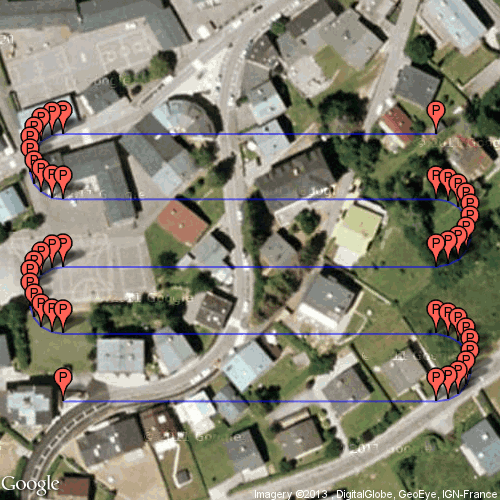
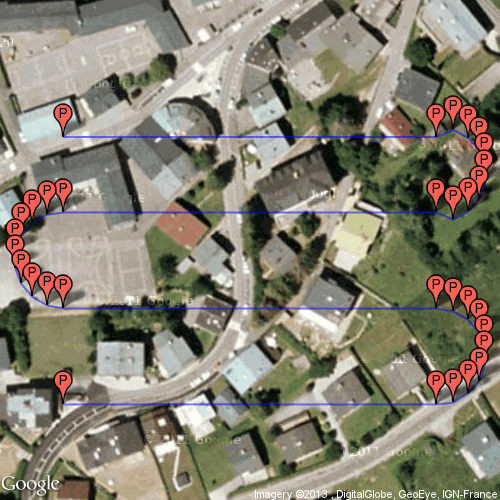
Correcion bug zoom et fonction de chargemnt

diff --git a/Map.java b/Map.java
@@ -197,9 +197,6 @@ public class Map extends JPanel implements MouseListener, MouseMotionListener, M
 		////////////////////////////
                 loadImage();   	
 		
-		initWidth = image.getWidth();
-		initHeight = image.getHeight();
-		
 		System.out.println("Width = "+initWidth+" Height = "+initHeight);
                
                 Graphics2D g2 = image.createGraphics();
@@ -263,8 +260,8 @@ public class Map extends JPanel implements MouseListener, MouseMotionListener, M
 		//imageInit = new BufferedImage();		
 		
 		imageInit = image;
-		initWidth = image.getWidth();
-		initHeight = image.getHeight();
+		
+		
 		
 		System.out.println("Width = "+initWidth+" Height = "+initHeight);
                 Graphics2D g2 = image.createGraphics();
@@ -361,7 +358,7 @@ public class Map extends JPanel implements MouseListener, MouseMotionListener, M
         public void mouseClicked(MouseEvent e){
         	//la fonction est appelée lors d'un clic (appui + relache) (molette incluse)
 		if(mode == "Panorama"){
-			if(!drawArea){
+			if(drawArea == false){
 				if(e.getClickCount() == 1 && e.getButton() == BUTTON1){
 					System.out.println("sélection");
 				
@@ -458,7 +455,7 @@ public class Map extends JPanel implements MouseListener, MouseMotionListener, M
                 		
                 	//l'instance de popupmenu est crée dans le constructeur
 			popupmenu.show(this, e.getX(), e.getY());
-            		popupmenu.setVisible(true);			
+            		popupmenu.setVisible(true);		
 		}		
         }
         /////////////////////////// FIN DE LA ZONE MATLAB ///////////////////////        
@@ -660,21 +657,25 @@ public class Map extends JPanel implements MouseListener, MouseMotionListener, M
 		//la fonction est appelée lorsque la molette est tournée
 		//vers le haut : e.getWheelRotation = -1
 		//vers le bas : e.getWheelRotation = +1
+		//Si on est dans l'image :
+		if(e.getX() >= offsetX && e.getX() <= image.getWidth() + offsetX && e.getY() >= offsetY && e.getY() <= image.getHeight() + offsetY)
+		{
 		
-		if(e.getWheelRotation() == -1 && scale < 10){
-			scale = scale + 0.1;
-		}
-		else if(e.getWheelRotation() == 1){
-			scale = scale - 0.1;
-			
-			if(scale < 0.1){
-				scale = 0.1;
+			if(e.getWheelRotation() == -1 && scale < 10){
+				scale = scale + 0.1;
 			}
-		}
+			else if(e.getWheelRotation() == 1){
+				scale = scale - 0.1;
+				
+				if(scale < 0.1){
+					scale = 0.1;
+				}
+			}
 		
-		System.out.println("Echelle : "+scale);
-		System.out.println("Zone à zoomer : ("+e.getX()+";"+e.getY()+")");
-		setScale(e.getX(), e.getY());
+			System.out.println("Echelle : "+scale);
+			System.out.println("Zone à zoomer : ("+e.getX()+";"+e.getY()+")");
+			setScale(e.getX(), e.getY());
+		}	
 	}
 	
         /**
@@ -713,8 +714,7 @@ public class Map extends JPanel implements MouseListener, MouseMotionListener, M
 			p.poffset.setX(p.poffset.getX() - (int)((a-p.poffset.getX())*factor - a + p.poffset.getX()));
 			p.poffset.setY(p.poffset.getY() - (int)((b-p.poffset.getY())*factor - b + p.poffset.getY()));
 		}
-     		
-     		
+     				
 		repaint();
     	}
     	
@@ -724,11 +724,16 @@ public class Map extends JPanel implements MouseListener, MouseMotionListener, M
          */
     	public void initLocation(){
     		
+    		image = imageInit;
+    		//mettre à jour les pins
+    		for(Pin p : listPin){
+			p.poffset.setX((int)((p.poffset.getX()-offsetX)/scale));
+			p.poffset.setY((int)((p.poffset.getY()-offsetY)/scale));		
+		}
+    		
     		offsetX = 0;
     		offsetY = 0;
     		
-    		image = imageInit;
-    		//mettre à jour les pins
     		repaint();
     	}
 
@@ -745,6 +750,10 @@ public class Map extends JPanel implements MouseListener, MouseMotionListener, M
             		File photo = new File(fileName);
         		image =ImageIO.read(photo);
         		imageInit = image;
+        		
+        		initWidth = image.getWidth();
+			initHeight = image.getHeight();
+			scale = 1;
         		//imageInit référence la meme instance que l'image chargée 
         	}	  
         	catch(MalformedURLException mue)  
@@ -773,6 +782,9 @@ public class Map extends JPanel implements MouseListener, MouseMotionListener, M
 			File photo = new File(fileName);
         		image =ImageIO.read(photo);
         		imageInit = image;
+        		initWidth = image.getWidth();
+			initHeight = image.getHeight();
+			scale = 1;
         		//imageInit référence la meme instance que l'image chargée 
         	}	  
         	catch(MalformedURLException mue)  
@@ -795,9 +807,13 @@ public class Map extends JPanel implements MouseListener, MouseMotionListener, M
 	public void loadImage(BufferedImage b){
 		image = b;
 		imageInit = image;
+		initWidth = image.getWidth();
+		initHeight = image.getHeight();
+		
 		scale = 1;
 		offsetX = 0;
 		offsetY = 0;
+		
 		repaint();
 	}
 	/**

diff --git a/Itineraire.java b/Itineraire.java
@@ -8,6 +8,13 @@ import java.awt.image.BufferedImage;
 import java.util.* ;
 import java.lang.* ;
 
+/**
+ * <b>Itinéraire est la classe qui permet de calculer les différents points de passage de l'avion.</b>
+ * @see Configuration
+ * 
+ * @author benoit Franquet Corentin Floch
+ * @version 1.0
+ */
 public class Itineraire extends Thread{
 	/**
 	*	 Un tableau à 2 éléments de latitude qui sera utilisé pour calculer les caps et distance
@@ -131,6 +138,13 @@ public class Itineraire extends Thread{
 		chargement = loadConfig();
 	}
 	
+	/**
+	*	Redefinition de la fonction run de la clsse thread
+	*	Cette fonction permet de calculer les breakpoints, ainsi que d'obtenir la map par Google
+	*	tout ceci en arrière plan afin de ne pas paralyser l'interface graphique.
+	*
+	*	@see Fenetre
+	*/
 	public void run(){
 		if(chargement){ 
 			latitude[0] = lat[0];
@@ -389,8 +403,8 @@ public class Itineraire extends Thread{
 	}
 	/**
 	*	Tentative pour obtenir des markeurs formant un arc de cercle en bout de chemin
-	* @param sens
-	* Le sens de parcours de l'avion
+	* 	@param sens
+	* 		Le sens de parcours de l'avion
 	*/
 	public void getArcPoint(String sens){
 		//on travail sur les deux jeux de points
@@ -456,6 +470,7 @@ public class Itineraire extends Thread{
 	}
 	/**
 	*	Charger la configuration si elle existe
+	*	@return Un booléen montrant l'état du chargement
 	*/
 	public boolean loadConfig(){
 		boolean chargement=false;
@@ -513,6 +528,7 @@ public class Itineraire extends Thread{
 
 	/**
 	*	Permet de retourner la liste de breakpoints
+	*	@return La liste de breakpoints finale comportant les breakpoints situés en ligne droite
 	*/
 	public ArrayList<double[]> getListBreakPoint(){
 		return finale;
@@ -520,12 +536,15 @@ public class Itineraire extends Thread{
 
 	/**
 	*	Permet de retourner l'image Google Map
+	*	@return l'image de Google Map
 	*/		
 	public BufferedImage getImage(){
 		return map;
 	}
 	/**
 	*	Montrer les messages d'erreur
+	*	@param erreur
+	*		Le message d'erreur à afficher si il n'y a pas eu chargement
 	*/
 	public void ShowError(String erreur){
 		JOptionPane Erreur = new JOptionPane();
@@ -533,6 +552,7 @@ public class Itineraire extends Thread{
 	}
 	/**
 	*	Sauvegarder les données
+	*	@return une chaine montrant l'état du composant
 	*/
 	public String toString(){
 		//enregistement automatique des données dans le dossier spécifié

diff --git a/Configuration.java b/Configuration.java
@@ -24,7 +24,6 @@ import java.lang.*;
  * </p>
  * 
  * @see Itineraire
- * 
  * @author benoit Franquet Corentin Floch
  * @version 1.0
  */
@@ -64,11 +63,11 @@ public class Configuration extends JFrame implements ActionListener{
 	private String Dossier;
 	
         /**
-         * Constructeur Configuration.
-         * <p>
-         * A la construction d'un objet Configuration, on charge les paramètres précédement enregistrés
-         * </p>
-         * 
+         * 	Constructeur Configuration.
+         * 	<p>
+         * 	A la construction d'un objet Configuration, on charge les paramètres précédement enregistrés
+         * 	</p>
+         * 	@see Fenetre
          */
 	Configuration(){
 		super("Configuration de l'itinéraire");
@@ -293,10 +292,10 @@ public class Configuration extends JFrame implements ActionListener{
 	}
 
         /**
-        * Capte les clics sur le bouton sauvegarde
+        * 	Capte les clics sur le bouton sauvegarde
 	*
-        * @param e
-        *           Un évenement clic sur le bouton sauvegarde
+        *	@param e
+        *	           Un évenement clic sur le bouton sauvegarde
         * 
         */
 	public void actionPerformed(ActionEvent e){
@@ -313,7 +312,7 @@ public class Configuration extends JFrame implements ActionListener{
 	}
 	
         /**
-        * Permet de charger les paramètres précédement enregistrés
+        * 	Permet de charger les paramètres précédement enregistrés
         * 
         */
 	public void readParameters(){
@@ -365,11 +364,11 @@ public class Configuration extends JFrame implements ActionListener{
 	}
 	
         /**
-        * Permet d'écrire les paramètres de chaque champs dans un fichier texte
+        * 	Permet d'écrire les paramètres de chaque champs dans un fichier texte
         * 
-        * param s
-        *	la chaine de caractère.
-        *
+        * 	@param s
+        *		la chaine de caractère.
+        *	@return Une chaine montrant l'état du composant
         */
 	public String toString(String s){
 		try{		

diff --git a/convertTab.java b/convertTab.java
@@ -5,24 +5,65 @@ import Panorama.* ;
 import java.util.* ;
 import java.lang.* ;
 
-
+/**
+ * <b>convertTab est la classe qui permet de convertir le tableau de donnée du format
+ *  MWNumericArray à double .</b>
+ * <p>
+ * Elle permet de bénéficier de l'avantage des threads pour la conversion.
+ * Les deux tableaux latitude et longitude sont ainsi convertis quasiment en même temps et non plus
+ * séquentiellement.
+ * </p>
+ *
+ * @see Fenetre
+ * @author benoit Franquet Corentin Floch
+ * @version 1.0
+ */
 public class convertTab implements Runnable{
+	/**
+	*	Le tableau une fois convertit
+	*/
 	private double[][] Tableau;
+	/**
+	*	Le tableau à convertir
+	*/
 	private MWArray aconvertir;
+	/**
+	*	Le nombre de ligne du tableau
+	*/
 	private int ligne;
+	/**
+	*	Le nombre de colonne du tableau
+	*/
 	private int colonne;
 
+	/**
+	*	Constructeur de la classe
+	*	@param tab
+	*		Le tableau brut à convertir
+	*	@param l
+	*		Le nombre de ligne
+	*	@param c
+	*		Le nombre de colonne
+	*	@see Fenetre
+	*/
 	convertTab(MWNumericArray tab,int l,int c){
 		aconvertir = tab;
 		ligne = l;
 		colonne = c;
 		Tableau = new double[ligne][colonne];
 	}
-	
+	/**
+	*	Fonction qui permet de retourner le tableau convertit
+	*	@return Le tableau convertit
+	* 	@sse Fenetre
+	*/	
 	public double[][] getTableau(){
 		return Tableau;
 	}
-	
+	/**
+	*	Fonction de lancement du thread, pendant lequel la conversion s'effectue
+	*
+	*/
 	public void run() {
 		for (int i=2;i<ligne;i++){
 			for (int j=1;j<colonne;j++){

diff --git a/MouseMapMenu.java b/MouseMapMenu.java
@@ -107,9 +107,8 @@ public class MouseMapMenu extends JPopupMenu implements ActionListener{
 		
 		if(e.getActionCommand().equals("Taille originale"))
 		{	
-			carte.initLocation(); //fonction invalide avec la présence de marqueurs (reprise de l'image initiale)
-			//placer les pins en originalOffsetX et originalOffsetY
-			//dans initLocation
+			carte.initLocation();
+			//modifie également la liste des pin
 		}
 		
 		if(e.getActionCommand().equals("Zoom In"))
@@ -125,13 +124,6 @@ public class MouseMapMenu extends JPopupMenu implements ActionListener{
 				carte.setScale(carte.endX, carte.endY);	
 			}
 		}
-		/*
-		if(e.getActionCommand().equals("Enregistrer la zone"))
-		{
-			//carte.CropMap();
-			carte.startDraw();
-		}
-		*/
 	}		
 }
 

diff --git a/Fenetre.java b/Fenetre.java
@@ -275,6 +275,8 @@ public class Fenetre extends JFrame implements ActionListener{
 					
 					if (fphoto.exists() && fpin.exists()){
 						//les deux dossiers nécéssaires existent tout est ok
+						panorama.offsetX = 0;
+						panorama.offsetY = 0;
 						panorama.loadImage(Photo);
 						panorama.readWork(pin);
 					}

diff --git a/KmlWriter.java b/KmlWriter.java
@@ -38,6 +38,7 @@ public class KmlWriter{
 	*	@param lon
 	*		le tableau de longitude des 4 coins du champs
 	*
+	*	@see Itineraire
 	*/
 	KmlWriter(ArrayList<double[]> f, String file,double[] lat,double[] lon){
 		try { 
